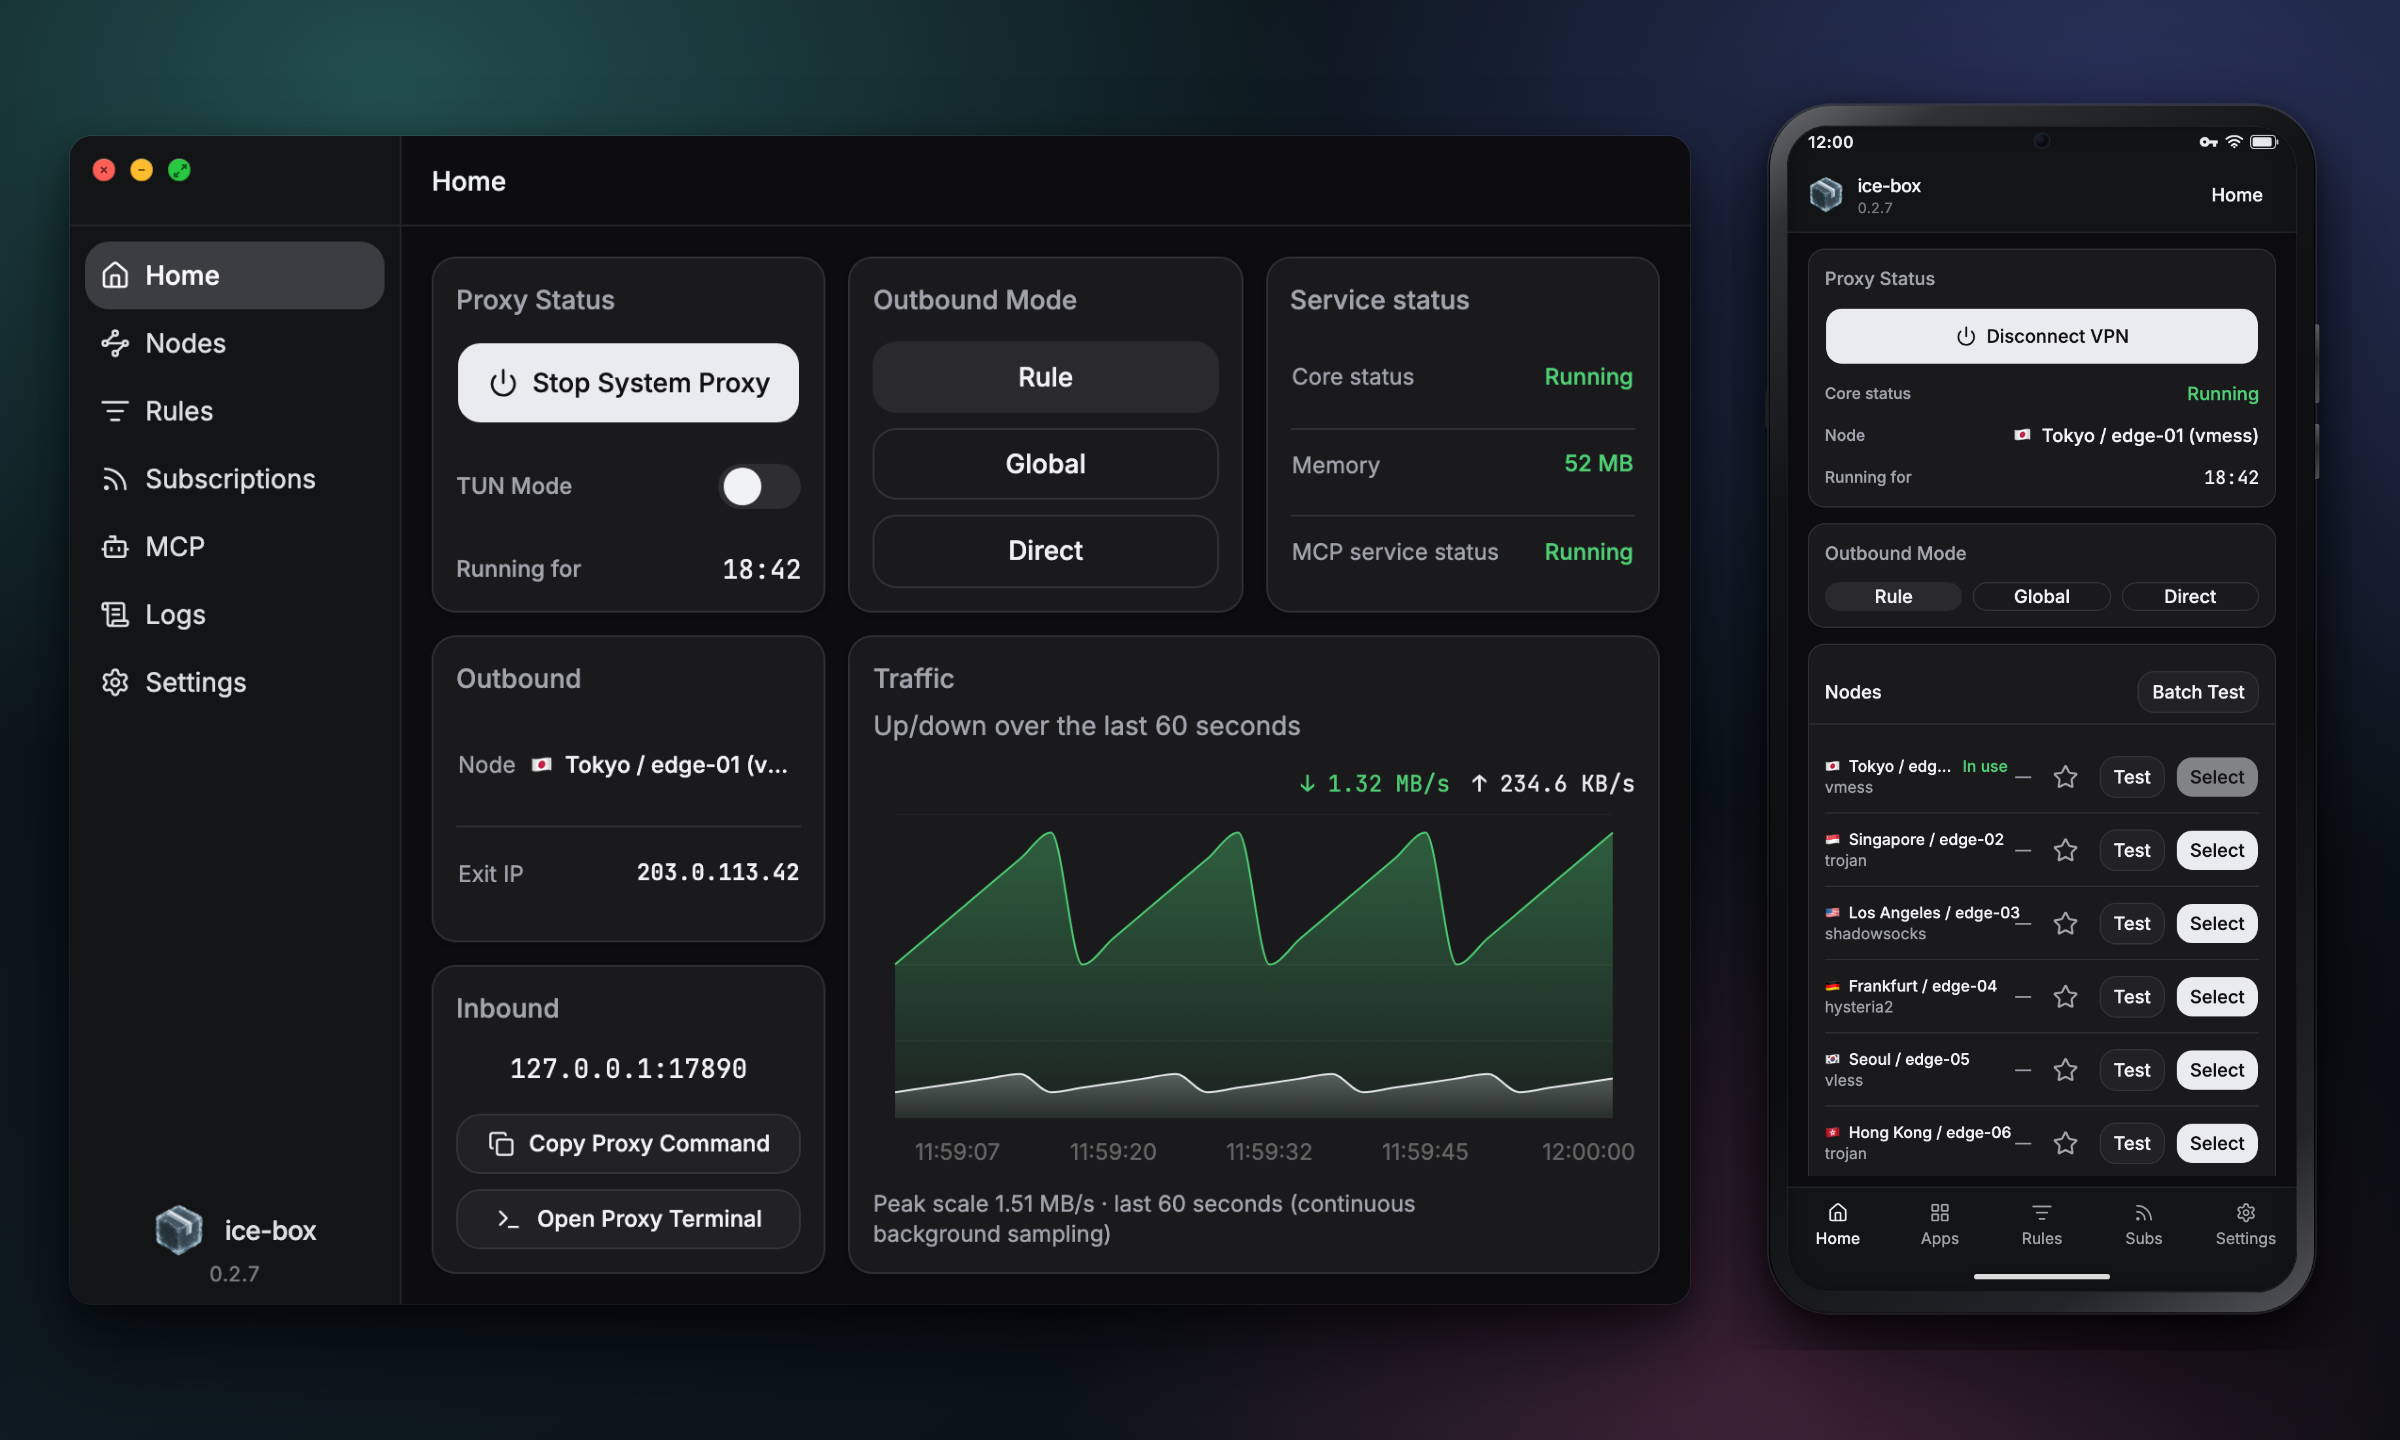
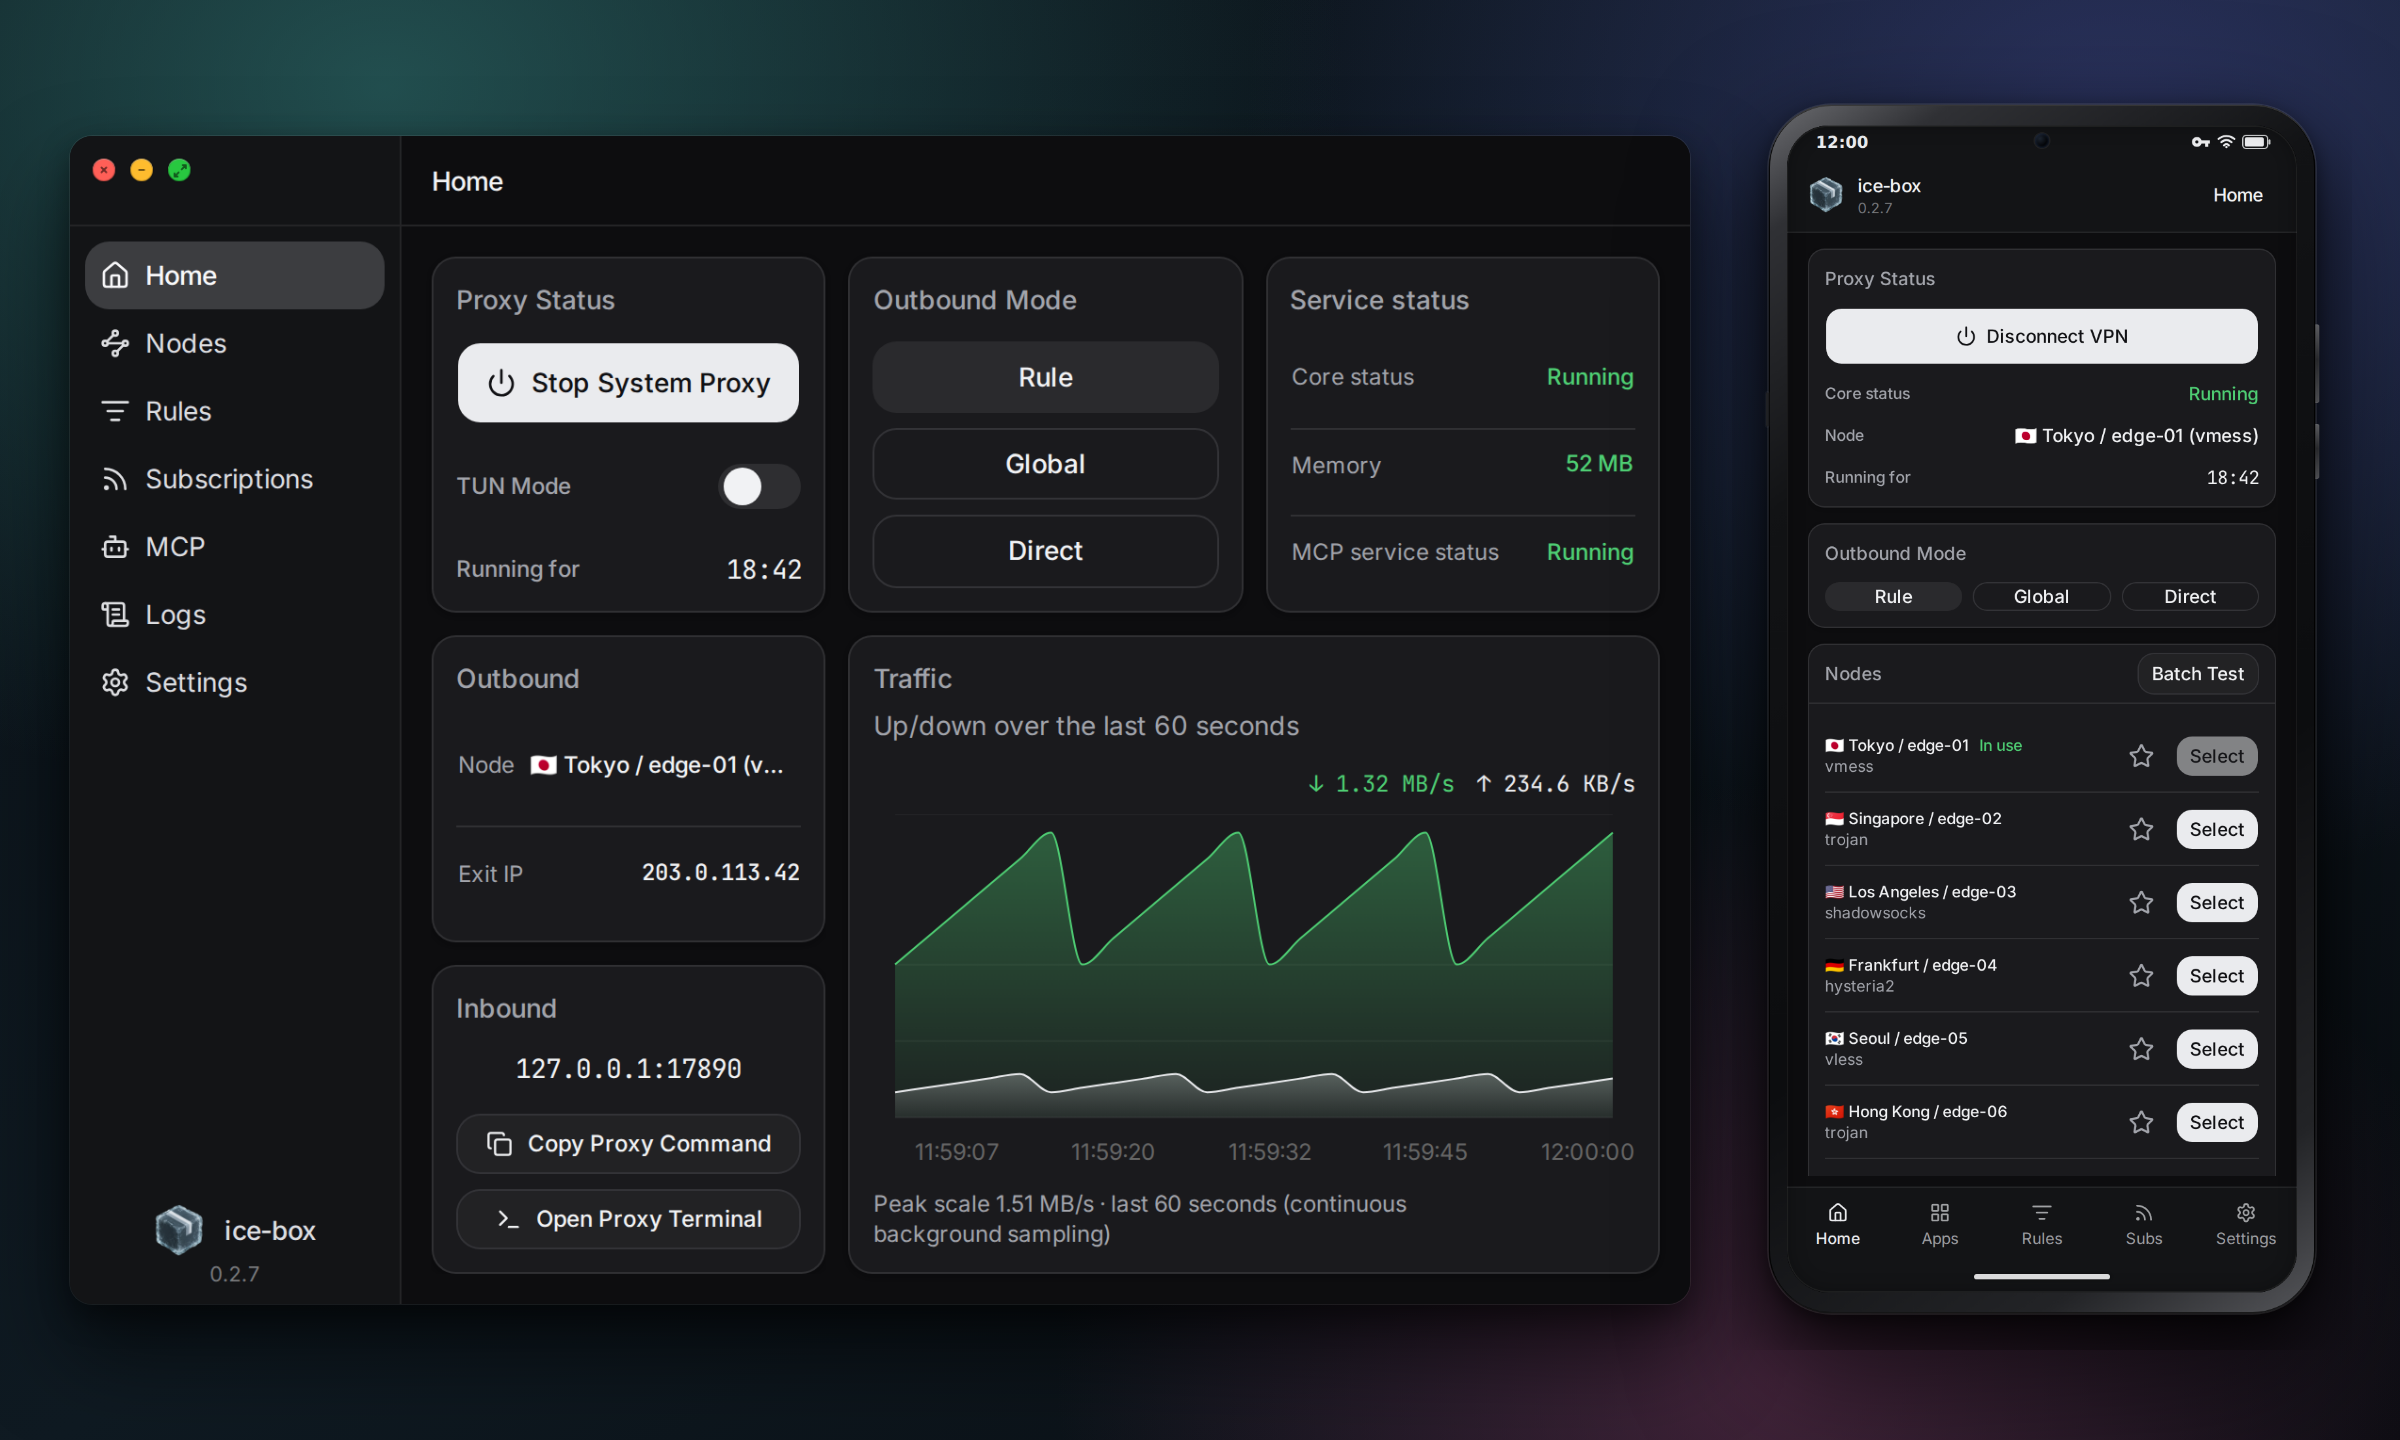
fix(mobile): tidy the phone Home node list and demo status bar
- Phone Home node list: drop the per-node Test button (Batch Test covers it;
  a collapsed group tests only its current exit), shorten the header, and
  give its title the same style as the other Home cards.
- All platforms: a node without a delay result shows nothing instead of a
  dash placeholder.
- Website Live Demo and README capture: move the status bar clock and icons
  further from the rounded screen corners.
- Tests: cover the phone row buttons, the empty delay cell, and the batch
  test target selection on desktop and phone.
- Recapture docs/images/hero*.png.

diff --git a/apps/desktop/src/pages/Nodes.tsx b/apps/desktop/src/pages/Nodes.tsx
@@ -12,7 +12,7 @@ import { TitlebarActions } from "../components/TitlebarActions";
 import { ErrorAlert, WarnAlert } from "../components/StatusAlert";
 import { badgeVariants } from "@/components/ui/badge";
 import { Button, buttonVariants } from "@/components/ui/button";
-import { Card, CardContent } from "@/components/ui/card";
+import { Card, CardContent, CardTitle } from "@/components/ui/card";
 import {
   Item,
   ItemActions,
@@ -91,8 +91,10 @@ function delayBadge(delay: DelayCell) {
       </span>
     );
   }
+  // No result yet: leave the cell empty instead of a placeholder dash.
+  if (delay === null) return null;
   return (
-    <span data-testid="delay-idle" className="text-xs text-muted-foreground">
+    <span data-testid="delay-testing" className="text-xs text-muted-foreground">
       {formatDelay(delay)}
     </span>
   );
@@ -344,19 +346,23 @@ const NodeRow = memo(function NodeRow({
                 pending={favoritePending || selectionPending}
                 onToggle={onToggleFavorite}
               />
-              <button
-                type="button"
-                className={buttonVariants({ size: "sm", variant: "outline" })}
-                disabled={!running || busy || favoritePending}
-                title={
-                  expanded
-                    ? t("nodes.testAllMembers")
-                    : t("nodes.testCurrent")
-                }
-                onClick={() => onTest(node)}
-              >
-                {t("nodes.test")}
-              </button>
+              {/* The phone row is too narrow for a per-node test; the header's
+                  batch test covers it there. */}
+              {embedded ? null : (
+                <button
+                  type="button"
+                  className={buttonVariants({ size: "sm", variant: "outline" })}
+                  disabled={!running || busy || favoritePending}
+                  title={
+                    expanded
+                      ? t("nodes.testAllMembers")
+                      : t("nodes.testCurrent")
+                  }
+                  onClick={() => onTest(node)}
+                >
+                  {t("nodes.test")}
+                </button>
+              )}
               <button
                 type="button"
                 className={buttonVariants({ size: "sm" })}
@@ -389,14 +395,16 @@ const NodeRow = memo(function NodeRow({
                 pending={favoritePending || selectionPending}
                 onToggle={onToggleFavorite}
               />
-              <button
-                type="button"
-                className={buttonVariants({ size: "sm", variant: "outline" })}
-                disabled={!running || busy || favoritePending}
-                onClick={() => onTest(node)}
-              >
-                {t("nodes.test")}
-              </button>
+              {embedded ? null : (
+                <button
+                  type="button"
+                  className={buttonVariants({ size: "sm", variant: "outline" })}
+                  disabled={!running || busy || favoritePending}
+                  onClick={() => onTest(node)}
+                >
+                  {t("nodes.test")}
+                </button>
+              )}
               <button
                 type="button"
                 className={buttonVariants({ size: "sm" })}
@@ -882,12 +890,21 @@ export function Nodes({ onNavigate, active = true, embedded = false }: Props) {
         </WarnAlert>
       )}
 
-      <Card size="sm" className="flex min-h-0 flex-1 flex-col overflow-hidden">
+      {/* On the phone the header bar starts the card, so the card's own top
+          padding would only add empty space above the title. */}
+      <Card
+        size="sm"
+        className={cn(
+          "flex min-h-0 flex-1 flex-col overflow-hidden",
+          embedded && "pt-0",
+        )}
+      >
         {embedded ? (
-          <div className="flex shrink-0 items-center gap-2 border-b border-border px-3 py-2">
-            <span className="min-w-0 flex-1 truncate text-sm font-medium">
+          <div className="flex shrink-0 items-center gap-2 border-b border-border px-3 py-1.5">
+            {/* Same title style as the other phone Home cards. */}
+            <CardTitle className="min-w-0 flex-1 truncate text-xs font-medium text-muted-foreground">
               {t("app.nav.nodes")}
-            </span>
+            </CardTitle>
             {batchButton}
           </div>
         ) : null}

diff --git a/apps/desktop/src/pages/Nodes.test.tsx b/apps/desktop/src/pages/Nodes.test.tsx
@@ -113,6 +113,25 @@ describe("Nodes", () => {
     expect(view.getByTestId("nodes-panel")).toBeInTheDocument();
   });
 
+  it("shows no delay placeholder before a node was tested", async () => {
+    const { container } = render(<Nodes />);
+    const view = within(container);
+    await view.findByRole("list", { name: t("nodes.listAria") });
+
+    expect(view.queryByText(t("common.dash"))).not.toBeInTheDocument();
+    expect(view.queryByTestId("delay-testing")).not.toBeInTheDocument();
+  });
+
+  it("drops the per-node test buttons on the phone but keeps the batch test", async () => {
+    const { container } = render(<Nodes embedded />);
+    const view = within(container);
+    await view.findByRole("list", { name: t("nodes.listAria") });
+
+    expect(view.queryAllByRole("button", { name: t("nodes.test") })).toHaveLength(0);
+    expect(view.getAllByRole("button", { name: t("nodes.select") }).length).toBeGreaterThan(0);
+    expect(view.getByRole("button", { name: t("nodes.batchTest") })).toBeInTheDocument();
+  });
+
   it("does not warn while the service status is still loading", async () => {
     getStatus.mockImplementation(async () => {
       // Hold the status past the node/settings reads: the list used to render
@@ -709,6 +728,53 @@ describe("Nodes", () => {
 
     expect(await view.findByText(t("nodes.noTestable"))).toBeInTheDocument();
     expect(testNodeDelay).not.toHaveBeenCalled();
+  });
+
+  // The batch test is shared by every platform: a collapsed group probes only
+  // its current exit (shown on the group row), an expanded one every member.
+  describe.each([
+    ["desktop", false],
+    ["phone", true],
+  ])("batch delay test on %s", (_platform, embedded) => {
+    beforeEach(() => {
+      listNodes.mockResolvedValue([
+        { tag: "node-a", outbound_type: "vmess", group_now: null, group_all: null },
+        {
+          tag: "选择组",
+          outbound_type: "selector",
+          group_now: "hk-1",
+          group_all: ["hk-1", "hk-2", "hk-3"],
+        },
+      ]);
+    });
+
+    it("tests only the current exit of a collapsed group", async () => {
+      const { container } = render(<Nodes embedded={embedded} />);
+      const view = within(container);
+      await view.findByRole("button", { name: "选择组", expanded: false });
+
+      fireEvent.click(await screen.findByRole("button", { name: t("nodes.batchTest") }));
+
+      await waitFor(() => {
+        expect(within(rowOf(view, "选择组")).getByText("42 ms")).toBeInTheDocument();
+      });
+      const probed = testNodeDelay.mock.calls.map(([tag]) => tag);
+      expect(probed.sort()).toEqual(["hk-1", "node-a"]);
+    });
+
+    it("tests every member of an expanded group", async () => {
+      const { container } = render(<Nodes embedded={embedded} />);
+      const view = within(container);
+      await expandGroup(view, "选择组");
+
+      fireEvent.click(await screen.findByRole("button", { name: t("nodes.batchTest") }));
+
+      await waitFor(() => {
+        expect(testNodeDelay).toHaveBeenCalledTimes(4);
+      });
+      const probed = testNodeDelay.mock.calls.map(([tag]) => tag);
+      expect(probed.sort()).toEqual(["hk-1", "hk-2", "hk-3", "node-a"]);
+    });
   });
 
   it("expands a strategy group from the keyboard", async () => {

diff --git a/apps/website/src/phone-demo.css b/apps/website/src/phone-demo.css
@@ -119,7 +119,7 @@
   align-items: center;
   justify-content: space-between;
   height: 24px;
-  padding: 0 14px 0 16px;
+  padding: 0 20px 0 22px;
   background: #131416;
   color: #ecedef;
   font-family: var(--sans);

diff --git a/CHANGELOG.md b/CHANGELOG.md
@@ -21,6 +21,13 @@ The format is based on [Keep a Changelog](https://keepachangelog.com/en/1.1.0/).
   platform builds start right after it. Both `tauri.conf.json` files read their
   version from `package.json`, and the gates check that every workflow pins the
   Rust toolchain from `rust-toolchain.toml`.
+- Nodes: a node without a delay result shows nothing instead of a `—`
+  placeholder.
+- Android: the Home node list drops the per-node Test button (Batch Test still
+  tests every node; a collapsed group tests only its current exit), so rows no
+  longer crowd or overlap. Its header is shorter and its title matches the
+  other Home cards. The website Live Demo phone status bar keeps the clock and
+  icons further from the rounded corners.
 
 ### Fixed
 
